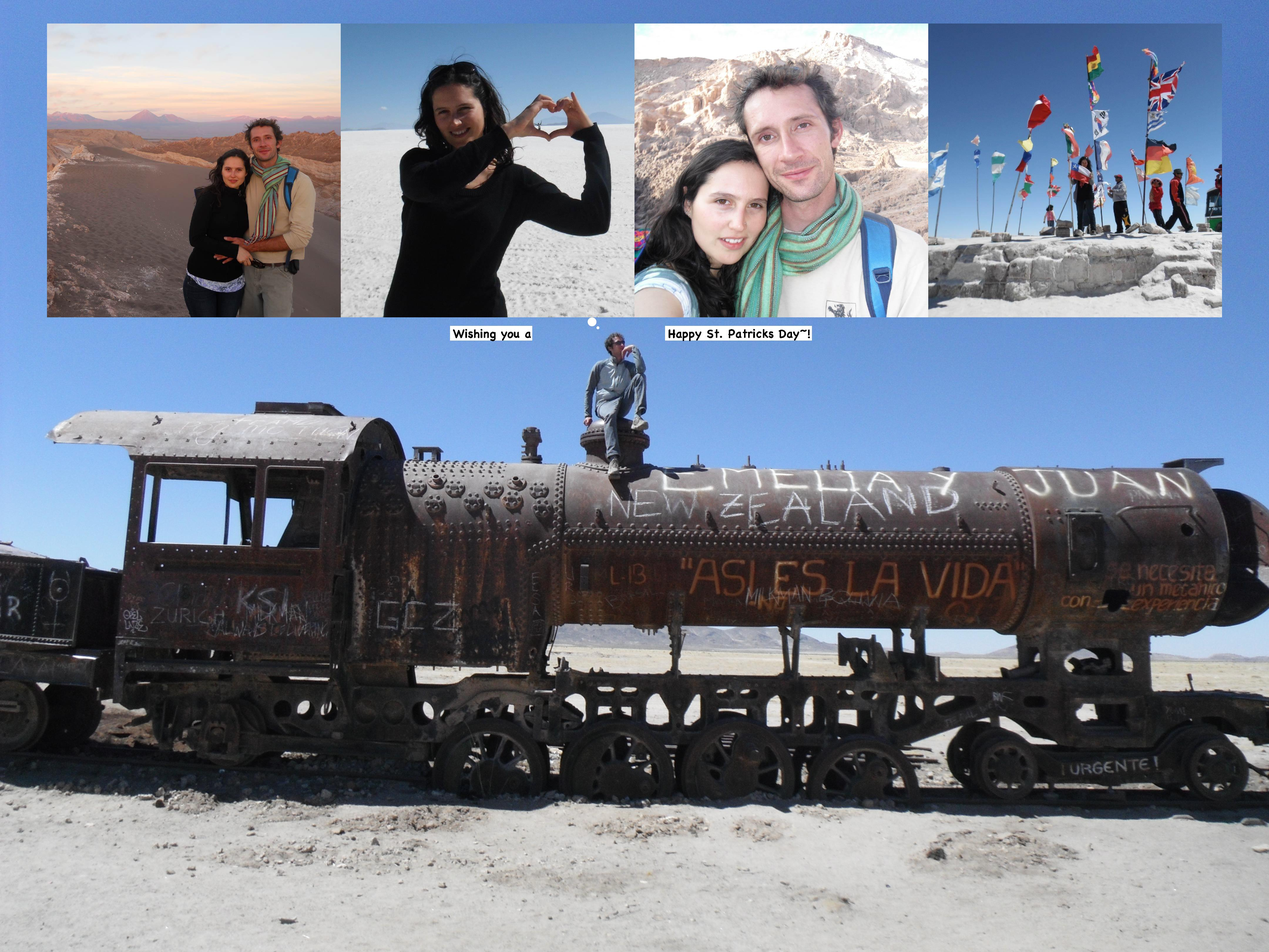
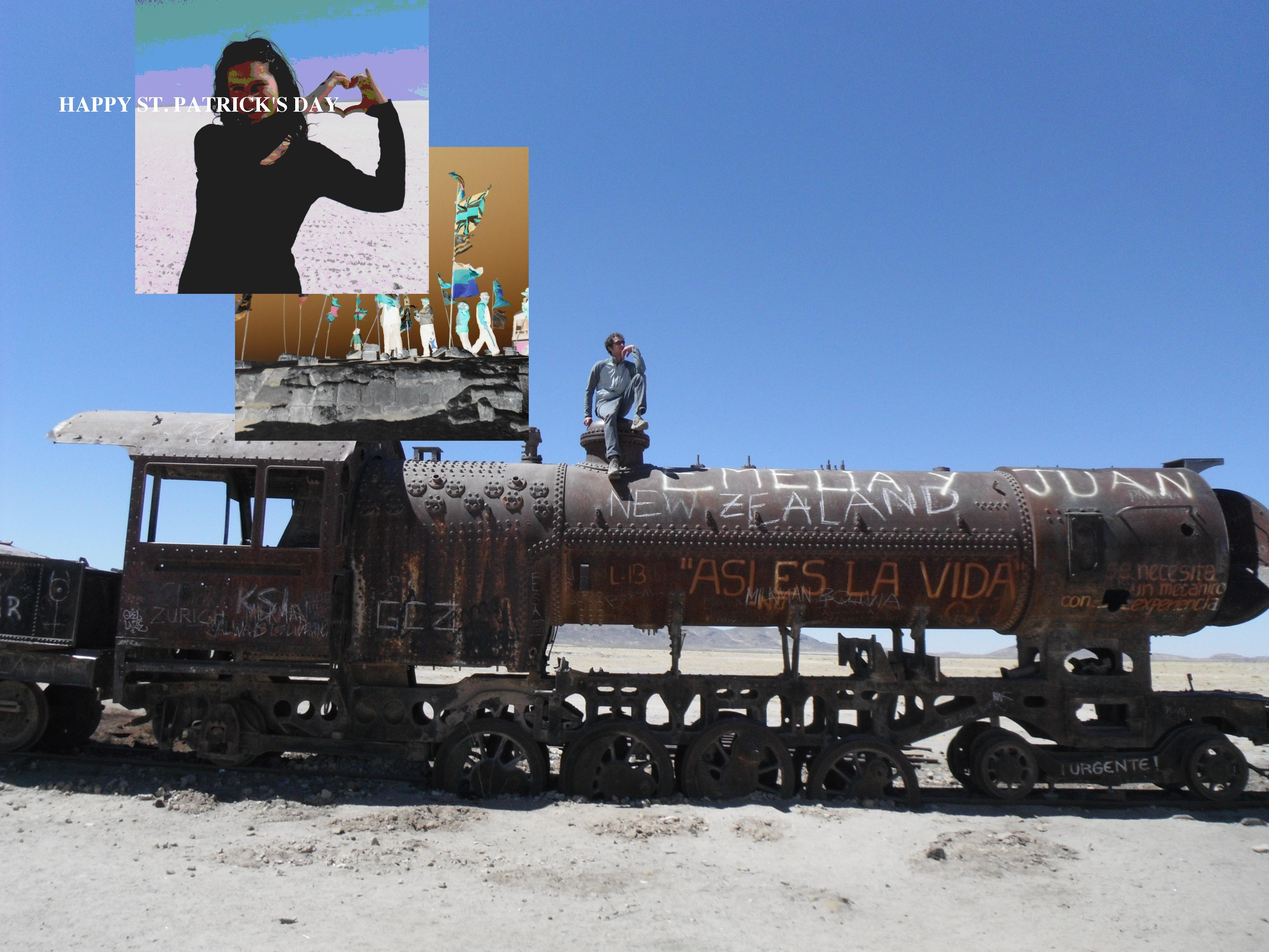
Added lab7 from Jiwan which is a merge of Rogelios code
Updated functions so that they can be called instead of automatically running

Changed region(s): [[0.0312, 0.0, 0.9688, 0.4676]]

diff --git a/Lab 7 - Group B/lab7_jiwan-fixed.py b/Lab 7 - Group B/lab7_jiwan-fixed.py
@@ -1,0 +1,121 @@
+###################
+#	WARM UP	#
+###################
+
+#Jiwanjot Sandhu
+#Pelican Collective
+#Lab 7 - SNOWMAN WARM UP
+
+def makeSnowman():
+  my_pic = makePicture(pickAFile())
+  #402 180
+
+  #body
+  addOvalFilled(my_pic, 360, 150, 200, 200, white)
+  addOvalFilled(my_pic, 405, 70, 120, 120, white)
+  addOvalFilled(my_pic, 430, 20, 70, 70, white)
+
+  #face
+  #eyes
+  addOvalFilled(my_pic, 470, 30, 10, 10, black)
+  addOvalFilled(my_pic, 460, 40, 10, 10, orange)
+  addOvalFilled(my_pic, 450, 30, 10, 10, black)
+
+  addOvalFilled(my_pic, 445, 50, 10, 10, black)
+  addOvalFilled(my_pic, 455, 55, 10, 10, black)
+  addOvalFilled(my_pic, 465, 55, 10, 10, black)
+  addOvalFilled(my_pic, 475, 50, 10, 10, black)
+
+  arm = makeColor(208,139,82)
+
+  addRectFilled(my_pic, 358, 100, 68,5, arm)
+  addRectFilled(my_pic, 500, 100, 68,5, arm)
+  myFont = makeStyle("Arial", bold, 75)
+
+  addTextWithStyle(my_pic,550,440, "Hello Summer", myFont,white)
+  writePictureTo(my_pic, pickAFile())
+  #repaint(my_pic)
+  explore(my_pic)
+
+##############################
+#	ST PATRICKS DAY CARD	#
+##############################
+
+#Jiwanjot Sandhu
+#Pelican Collective
+#Lab 7 - ST PATRICKS DAY CARD
+
+#main
+def Card():
+  bgkd = makePicture(pickAFile())
+  pic1 = makeNegative(makePicture(pickAFile()))
+  pic2 = artify(makePicture(pickAFile()))
+  pyCopy(pic1,bgkd,800,500)
+  pyCopy(pic2,bgkd,460,0)
+  font = makeStyle(serif,bold, 72)
+  color = makeColor(255,255,255)
+  addTextWithStyle(bgkd,200,380,"HAPPY ST. PATRICK'S DAY",font,color)
+  writePictureTo(bgkd, pickAFile()) 
+  show(bgkd)
+
+#helper
+def pyCopy(source, target, targetX, targetY):
+  for x in range (0, getWidth(source)):
+    for y in range (0, getHeight(source)):
+      if (targetX+x < getWidth(target)) and (targetY+y < getHeight(target)):
+          p = getPixel(source, x, y)
+          if(targetX < 0):
+           targetX = 0
+          if(targetY < 0):
+           targetY = 0
+          setColor(getPixel(target, targetX+x, targetY+y), getColor(p))
+          
+def makeNegative(pic):
+  pixels = getPixels(pic)
+  for p in pixels:
+    r = getRed(p)
+    g = getGreen(p)
+    b = getBlue(p)
+    negColor = makeColor(255 - r, 255 - g, 255 - b)
+    setColor(p, negColor)
+  return pic
+  
+def artify(pic):
+  for x in range(0, getWidth(pic)):
+    for y in range(0, getHeight(pic)):
+      px = getPixel(pic, x, y)
+      red = getRed(px)
+      green = getGreen(px)
+      blue = getBlue(px)
+      
+      if red < 64:
+        setRed(px, 31)
+      elif red > 63 and red < 128:
+        setRed(px, 95)
+      elif red > 127 and red < 192:
+        setRed(px, 159)
+      else:
+        setRed(px, 223)
+      
+      if green < 64:
+        setGreen(px, 31)
+      elif green > 63 and green < 128:
+        setGreen(px, 95)
+      elif green > 127 and green < 192:
+        setGreen(px, 159)
+      else: 
+        setBlue(px, 223)
+      
+      if blue < 64:
+        setBlue(px, 31)
+      elif blue > 63 and blue < 128:
+        setBlue(px, 95)
+      elif blue > 127 and blue < 192:
+        setBlue(px, 159)
+      else:
+        setBlue(px, 223)
+  return(pic)
+
+
+
+
